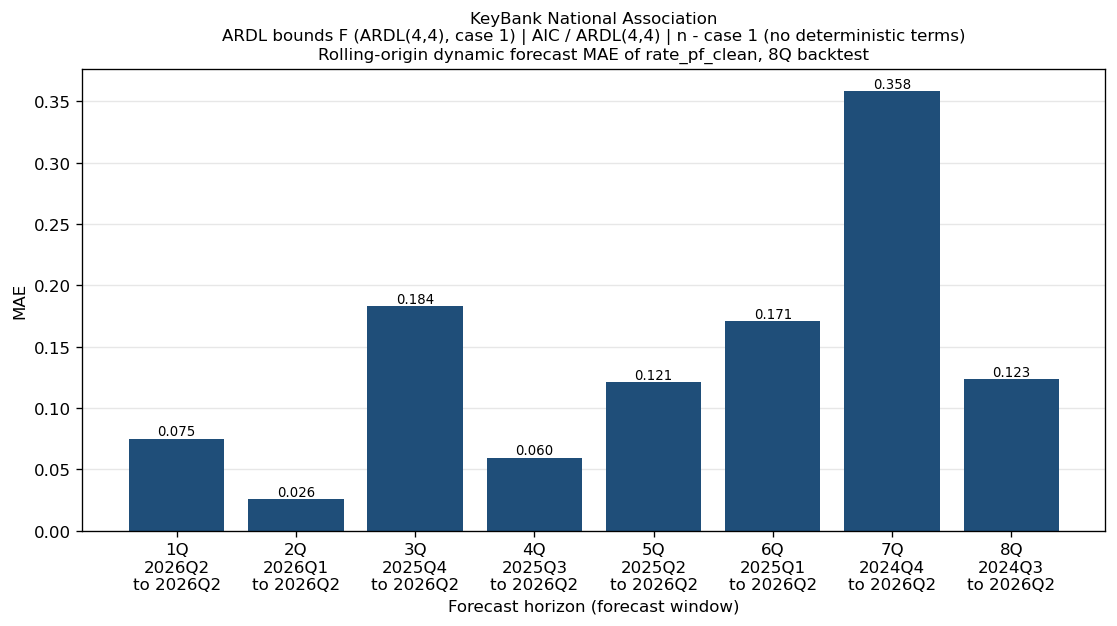
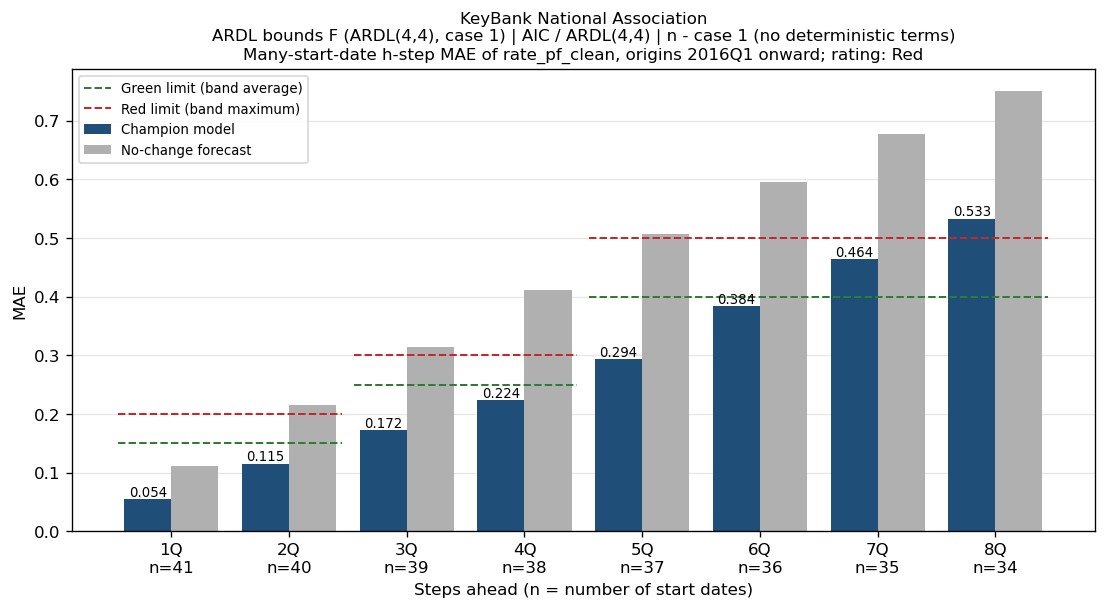
Show many-start-date backtest bar charts in the WIP doc
backtest.plot_multi_bars draws h-step MAE per horizon for the champion and the
no-change forecast, with the horizon-band green/red limits; run_backtest.py
writes it as MAE_backtest_multiorigin_<N>Q.png. make_figures.py now copies
these charts into docs/figures, replacing the single-window charts.

Changed region(s): [[0.0, 0.0, 1.0, 0.9984]]

diff --git a/MAE_Backtesting/backtest.py b/MAE_Backtesting/backtest.py
@@ -332,3 +332,29 @@ def plot_mae_bars(result, path, y=bp.DEFAULTS["y"]):
     ax.set_axisbelow(True)
     fig.savefig(path, dpi=120, bbox_inches="tight")
     plt.close(fig)
+
+
+def plot_multi_bars(bank, model, table, limits, rating, path, y=bp.DEFAULTS["y"]):
+    """h-step MAE per horizon (model and no-change) with the band limits from assess_multi."""
+    h = np.arange(1, len(table) + 1)
+    fig, ax = plt.subplots(figsize=(11, 5))
+    bars = ax.bar(h - 0.2, table["mae"], width=0.4, color="#1f4e79", label="Champion model")
+    ax.bar(h + 0.2, table["naive_mae"], width=0.4, color="#b0b0b0", label="No-change forecast")
+    ax.bar_label(bars, fmt="%.3f", fontsize=8)
+    for i, r in enumerate(limits.itertuples()):
+        span = [r.h_from - 0.45, r.h_to + 0.45]
+        ax.plot(span, [r.green] * 2, color="#2e7d32", linestyle="--", linewidth=1.2,
+                label="Green limit (band average)" if i == 0 else None)
+        ax.plot(span, [r.red] * 2, color="#c62828", linestyle="--", linewidth=1.2,
+                label="Red limit (band maximum)" if i == 0 else None)
+    ax.set_xticks(h, [f"{r.horizon_q}\nn={r.n_windows}" for r in table.itertuples()])
+    ax.set_title(f"{bank}\n{' | '.join(model)}\n"
+                 f"Many-start-date h-step MAE of {y}, origins {table.first_origin.iloc[0]} onward; rating: {rating}",
+                 fontsize=10)
+    ax.set_xlabel("Steps ahead (n = number of start dates)")
+    ax.set_ylabel("MAE")
+    ax.legend(fontsize=8, loc="upper left")
+    ax.grid(True, axis="y", alpha=0.3)
+    ax.set_axisbelow(True)
+    fig.savefig(path, dpi=120, bbox_inches="tight")
+    plt.close(fig)

diff --git a/MAE_Backtesting/run_backtest.py b/MAE_Backtesting/run_backtest.py
@@ -16,6 +16,8 @@ is used (ties broken EG > ARDL > Johansen). See backtest.py for the method. Outp
             MAE_backtest_<N>Q.csv       horizon, origin, forecast window, n_obs, MAE
         backtest_summary_<N>Q.csv       every bank's rows (only with --bank-name All)
         backtest_assessment_<N>Q.csv    Green/Amber/Red rating per bank (only with --bank-name All)
+            MAE_backtest_multiorigin_<N>Q.png/.csv  with --first-origin: h-step MAE, no-change MAE
+                                        and band limits per horizon
         backtest_multiorigin_<N>Q.csv   with --first-origin: h-step MAE over every origin from
                                         that quarter (expanding window), n_windows per horizon
         backtest_multiorigin_limits_<N>Q.csv       horizon-band green/red limits from this run
@@ -116,6 +118,9 @@ def write_multi(multi, args, summary, estimates, source, cache, horizon, out_dir
              "; ".join(f"{r.band} {r.green:.2f}/{r.red:.2f}" for r in limits.itertuples()))
     for r in assessment.itertuples():
         log.info("  %s: %s%s", r.bank_name, r.rating, f" ({r.reason})" if r.reason else "")
+        bank_dir = out_dir / bt.bp.INVALID_CHARS_RE.sub("-", r.bank_name)
+        bt.plot_multi_bars(r.bank_name, multi[r.bank_name][0], tables[r.bank_name], limits, r.rating,
+                           bank_dir / f"MAE_backtest_multiorigin_{horizon}Q.png", args.y)
 
 
 def main(argv=None):

diff --git a/docs/make_figures.py b/docs/make_figures.py
@@ -5,8 +5,8 @@ Usage:
 
 Writes:
     <bank> - Actual vs Predicted.png                 champion's plot from "Actuals vs Predictions"
-    <bank> - MAE Backtest 8Q.png                     from MAE_Backtesting/output
-Run after "ECM workflow.py", plotting_workflow.py and MAE_Backtesting/run_backtest.py.
+    <bank> - MAE Backtest 8Q.png                     many-start-date backtest chart from MAE_Backtesting/output
+Run after "ECM workflow.py", plotting_workflow.py and MAE_Backtesting/run_backtest.py --first-origin 2016Q1.
 Figure 1 (docs/Historical Deposit Rates vs FFT.png) is produced by EDA1_Stationarity_Tests.ipynb.
 """
 
@@ -34,7 +34,7 @@ def main(argv=None):
         name = bt.bp.INVALID_CHARS_RE.sub("-", "+".join(model)) + ".png"
         folder = bt.bp.INVALID_CHARS_RE.sub("-", bank)
         shutil.copy(ROOT / "Actuals vs Predictions" / folder / name, out / f"{bank} - Actual vs Predicted.png")
-        shutil.copy(ROOT / "MAE_Backtesting" / "output" / folder / "MAE_backtest_8Q.png",
+        shutil.copy(ROOT / "MAE_Backtesting" / "output" / folder / "MAE_backtest_multiorigin_8Q.png",
                     out / f"{bank} - MAE Backtest 8Q.png")
     return 0
 

diff --git a/WIP Regional Banking Deposit Beta Analyses.md b/WIP Regional Banking Deposit Beta Analyses.md
@@ -26,7 +26,7 @@
 
 | Version | Date | Description |
 | :--- | :--- | :--- |
-| 0 (WIP) | 2026-10-30 | First SR 11-7 style draft, built from the vault documentation and the repository's code and outputs. Rebuilt the data on deposit interest expense only (`EDEPDOMQ` + `EDEPFORQ`) over a two-point average of total deposits, with full pro forma backfill for every merger of 1% or more since 2007 using real FDIC certs. This fixed the Glacier 2012, Huntington 2021Q1 and Old National 2025Q2 anomalies. Re-ran cointegration, re-specification and estimation for all seven banks, with deterministic terms matched to each test and insignificant short-run lags pruned; new champions for every bank. Added Zivot-Andrews tests for all banks, a many-start-date backtest with horizon-aware, peer-derived limits and a no-change skill test, and per-bank figures; Figure 1 regenerated from `EDA1_Stationarity_Tests.ipynb`. Removed the Key Open Issues summary; issues are tracked in §8 and §9 (OI-1 to OI-22). |
+| 0 (WIP) | 2026-10-30 | First SR 11-7 style draft, built from the vault documentation and the repository's code and outputs. Rebuilt the data on deposit interest expense only (`EDEPDOMQ` + `EDEPFORQ`) over a two-point average of total deposits, with full pro forma backfill for every merger of 1% or more since 2007 using real FDIC certs. This fixed the Glacier 2012, Huntington 2021Q1 and Old National 2025Q2 anomalies. Re-ran cointegration, re-specification and estimation for all seven banks, with deterministic terms matched to each test and insignificant short-run lags pruned; new champions for every bank. Added Zivot-Andrews tests for all banks, a many-start-date backtest with horizon-aware, peer-derived limits and a no-change skill test, and per-bank figures, with many-start-date backtest bar charts (model vs. no-change, with band limits); Figure 1 regenerated from `EDA1_Stationarity_Tests.ipynb`. Removed the Key Open Issues summary; issues are tracked in §8 and §9 (OI-1 to OI-22). |
 
 ---
 
@@ -294,9 +294,9 @@ Tied on in-sample MAE with the HQIC selection of the same lags and with case 5 u
 - **Governing rating (many-start-date backtest, §5.6): Green**. h-step MAE, 1Q to 8Q, over 34 to 41 start dates: 0.100, 0.179, 0.227, 0.239, 0.283, 0.308, 0.312, 0.292. Worst skill ratio against the no-change forecast: 0.71 at 1Q.
 - Single-window 8Q backtest (one start date per horizon, supplementary): 0.094, 0.044, 0.030, 0.067, 0.096, 0.086, 0.177, 0.103; mean 0.087, no-change mean 0.307, beats no-change on 7/8 horizons (Green).
 
-![First Horizon Bank: 8Q backtest MAE by horizon](<docs/figures/First Horizon Bank - MAE Backtest 8Q.png>)
+![First Horizon Bank: many-start-date backtest MAE by horizon](<docs/figures/First Horizon Bank - MAE Backtest 8Q.png>)
 
-*Figure 3: First Horizon Bank, single-window 8Q backtest MAE by horizon (one start date per horizon), champion model.*
+*Figure 3: First Horizon Bank, many-start-date backtest: h-step MAE by horizon over 34 to 41 start dates (n under each bar), with the no-change forecast and the 8Q band limits (§5.6), champion model.*
 
 - The long-run trend (-0.011 pp per quarter, p 0.0005) survives full pro forma adjustment for IBERIABANK and Capital Bank, so it does not stand in for an unmodeled merger. For projection it is frozen at its 2026Q2 value (§5.7). The best no-trend alternative has θ 0.467, in-sample MAE 0.0511 and holdout MAE 0.118, against 0.517, 0.0469 and 0.087 for this model.
 - λ = -0.37: about 37% of any disequilibrium closes each quarter, the fastest adjustment in the peer set.
@@ -356,9 +356,9 @@ The constant and trend are individually insignificant (p 0.106 and 0.103) but ar
 - **Governing rating (many-start-date backtest, §5.6): Amber** (skill ratio 0.96 at 3Q). h-step MAE, 1Q to 8Q, over 34 to 41 start dates: 0.047, 0.103, 0.156, 0.195, 0.238, 0.277, 0.306, 0.331. Worst skill ratio against the no-change forecast: 0.96 at 3Q.
 - Single-window 8Q backtest (one start date per horizon, supplementary): 0.094, 0.031, 0.021, 0.017, 0.116, 0.172, 0.150, 0.040; mean 0.080, no-change mean 0.119, beats no-change on 5/8 horizons (Amber).
 
-![Glacier Bank: 8Q backtest MAE by horizon](<docs/figures/Glacier Bank - MAE Backtest 8Q.png>)
+![Glacier Bank: many-start-date backtest MAE by horizon](<docs/figures/Glacier Bank - MAE Backtest 8Q.png>)
 
-*Figure 5: Glacier Bank, single-window 8Q backtest MAE by horizon (one start date per horizon), champion model.*
+*Figure 5: Glacier Bank, many-start-date backtest: h-step MAE by horizon over 34 to 41 start dates (n under each bar), with the no-change forecast and the 8Q band limits (§5.6), champion model.*
 
 - The skill ratio is close to 1 (0.96 at 3Q): Glacier's rate moves little, so the no-change forecast is nearly as accurate as the model. This is the reason for the Amber rating.
 - The champion carries a long-run trend, frozen at its 2026Q2 value for projection (§5.7).
@@ -410,9 +410,9 @@ All three passing specifications give the same one-step ECM. No short-run terms 
 - **Governing rating (many-start-date backtest, §5.6): Red** (3-4Q max 0.307 > red 0.30; 5-8Q max 0.559 > red 0.50). h-step MAE, 1Q to 8Q, over 34 to 41 start dates: 0.084, 0.160, 0.234, 0.307, 0.377, 0.442, 0.510, 0.559. Worst skill ratio against the no-change forecast: 0.74 at 1Q.
 - Single-window 8Q backtest (one start date per horizon, supplementary): 0.101, 0.065, 0.163, 0.118, 0.094, 0.208, 0.424, 0.448; mean 0.203, no-change mean 0.231, beats no-change on 6/8 horizons (Amber).
 
-![Huntington National Bank: 8Q backtest MAE by horizon](<docs/figures/Huntington National Bank - MAE Backtest 8Q.png>)
+![Huntington National Bank: many-start-date backtest MAE by horizon](<docs/figures/Huntington National Bank - MAE Backtest 8Q.png>)
 
-*Figure 7: Huntington National Bank, single-window 8Q backtest MAE by horizon (one start date per horizon), champion model.*
+*Figure 7: Huntington National Bank, many-start-date backtest: h-step MAE by horizon over 34 to 41 start dates (n under each bar), with the no-change forecast and the 8Q band limits (§5.6), champion model.*
 
 - Cointegration rests on one specification family (OI-19).
 - Errors grow at long horizons. With no contemporaneous FFT term, the model passes rate cuts through too slowly (forecast 2.5% to 2.6% in 2024Q4 to 2025Q2 against an actual of 2.1% to 2.25%).
@@ -467,9 +467,9 @@ With deterministic terms matched to each test (§5.5), this model has the lowest
 - **Governing rating (many-start-date backtest, §5.6): Red** (5-8Q max 0.533 > red 0.50). h-step MAE, 1Q to 8Q, over 34 to 41 start dates: 0.054, 0.115, 0.172, 0.224, 0.294, 0.384, 0.464, 0.533. Worst skill ratio against the no-change forecast: 0.71 at 8Q.
 - Single-window 8Q backtest (one start date per horizon, supplementary): 0.075, 0.026, 0.184, 0.060, 0.121, 0.171, 0.358, 0.123; mean 0.140, no-change mean 0.272, beats no-change on 7/8 horizons (Green).
 
-![KeyBank National Association: 8Q backtest MAE by horizon](<docs/figures/KeyBank National Association - MAE Backtest 8Q.png>)
+![KeyBank National Association: many-start-date backtest MAE by horizon](<docs/figures/KeyBank National Association - MAE Backtest 8Q.png>)
 
-*Figure 9: KeyBank National Association, single-window 8Q backtest MAE by horizon (one start date per horizon), champion model.*
+*Figure 9: KeyBank National Association, many-start-date backtest: h-step MAE by horizon over 34 to 41 start dates (n under each bar), with the no-change forecast and the 8Q band limits (§5.6), champion model.*
 
 - The 8Q-ahead error (0.533) is above the peer-derived red limit for the 5Q to 8Q band, which is the reason for the Red rating.
 - λ = -0.11: slow adjustment, so errors compound over long horizons.
@@ -526,9 +526,9 @@ The deterministic terms follow the case 4 test specification (§5.5).
 - **Governing rating (many-start-date backtest, §5.6): Green**. h-step MAE, 1Q to 8Q, over 34 to 41 start dates: 0.059, 0.117, 0.170, 0.211, 0.261, 0.290, 0.304, 0.329. Worst skill ratio against the no-change forecast: 0.62 at 3Q.
 - Single-window 8Q backtest (one start date per horizon, supplementary): 0.107, 0.043, 0.065, 0.029, 0.335, 0.115, 0.069, 0.104; mean 0.108, no-change mean 0.235, beats no-change on 6/8 horizons (Green).
 
-![Manufacturers and Traders Trust Company: 8Q backtest MAE by horizon](<docs/figures/Manufacturers and Traders Trust Company - MAE Backtest 8Q.png>)
+![Manufacturers and Traders Trust Company: many-start-date backtest MAE by horizon](<docs/figures/Manufacturers and Traders Trust Company - MAE Backtest 8Q.png>)
 
-*Figure 11: Manufacturers and Traders Trust Company, single-window 8Q backtest MAE by horizon (one start date per horizon), champion model.*
+*Figure 11: Manufacturers and Traders Trust Company, many-start-date backtest: h-step MAE by horizon over 34 to 41 start dates (n under each bar), with the no-change forecast and the 8Q band limits (§5.6), champion model.*
 
 - The large single-window error at 5Q is one start date (2025Q1), where the model over-predicted the post-cut decline in deposit rates (OI-8). Over 37 start dates the 5-step-ahead MAE is 0.26 pp.
 - The champion carries a long-run trend (-0.011 pp per quarter, p 0.0065), frozen at its 2026Q2 value for projection (§5.7).
@@ -581,9 +581,9 @@ Johansen trace r ≤ 0 = 13.91 (p < 0.05).
 - **Governing rating (many-start-date backtest, §5.6): Green**. h-step MAE, 1Q to 8Q, over 34 to 41 start dates: 0.067, 0.132, 0.182, 0.230, 0.300, 0.359, 0.396, 0.437. Worst skill ratio against the no-change forecast: 0.67 at 2Q.
 - Single-window 8Q backtest (one start date per horizon, supplementary): 0.106, 0.052, 0.191, 0.094, 0.364, 0.173, 0.289, 0.114; mean 0.173, no-change mean 0.207, beats no-change on 6/8 horizons (Amber).
 
-![Old National Bank: 8Q backtest MAE by horizon](<docs/figures/Old National Bank - MAE Backtest 8Q.png>)
+![Old National Bank: many-start-date backtest MAE by horizon](<docs/figures/Old National Bank - MAE Backtest 8Q.png>)
 
-*Figure 13: Old National Bank, single-window 8Q backtest MAE by horizon (one start date per horizon), champion model.*
+*Figure 13: Old National Bank, many-start-date backtest: h-step MAE by horizon over 34 to 41 start dates (n under each bar), with the no-change forecast and the 8Q band limits (§5.6), champion model.*
 
 - The large single-window error at 5Q comes from one start date (2025Q1) and is the shared easing-cycle effect (OI-8).
 
@@ -638,9 +638,9 @@ No deterministic terms (case 1).
 - **Governing rating (many-start-date backtest, §5.6): Green**. h-step MAE, 1Q to 8Q, over 34 to 41 start dates: 0.061, 0.134, 0.202, 0.262, 0.312, 0.355, 0.384, 0.406. Worst skill ratio against the no-change forecast: 0.70 at 3Q.
 - Single-window 8Q backtest (one start date per horizon, supplementary): 0.077, 0.091, 0.057, 0.124, 0.392, 0.126, 0.314, 0.129; mean 0.164, no-change mean 0.182, beats no-change on 5/8 horizons (Amber).
 
-![SouthState Bank: 8Q backtest MAE by horizon](<docs/figures/SouthState Bank - MAE Backtest 8Q.png>)
+![SouthState Bank: many-start-date backtest MAE by horizon](<docs/figures/SouthState Bank - MAE Backtest 8Q.png>)
 
-*Figure 15: SouthState Bank, single-window 8Q backtest MAE by horizon (one start date per horizon), champion model.*
+*Figure 15: SouthState Bank, many-start-date backtest: h-step MAE by horizon over 34 to 41 start dates (n under each bar), with the no-change forecast and the 8Q band limits (§5.6), champion model.*
 
 - λ = -0.08 is the slowest adjustment in the peer set.
 - Shares the easing-cycle error at the 2025Q1 start date (OI-8).
@@ -866,7 +866,7 @@ FFT itself gives ZA `c` = -5.49, p 0.004, break 2022Q1. The break in the deposit
 | :--- | :--- |
 | Figures included in this document (champion models only) | `docs/figures/` |
 | Actual vs. predicted charts, every estimated specification | `Actuals vs Predictions/<bank>/` |
-| MAE stability bar charts and tables | `MAE_Backtesting/output/<bank>/MAE_backtest_8Q.{png,csv}` |
+| MAE stability bar charts and tables | `MAE_Backtesting/output/<bank>/MAE_backtest_8Q.{png,csv}` (single window); `MAE_backtest_multiorigin_8Q.{png,csv}` (many start dates; shown in §6) |
 | MAE stability summary, all banks | `MAE_Backtesting/output/backtest_summary_8Q.csv` |
 | Full coefficient tables, all estimated ECMs | `ECM estimation results.csv` |
 | In-sample MAE, all estimated ECMs | `estimation result summary.csv` |
